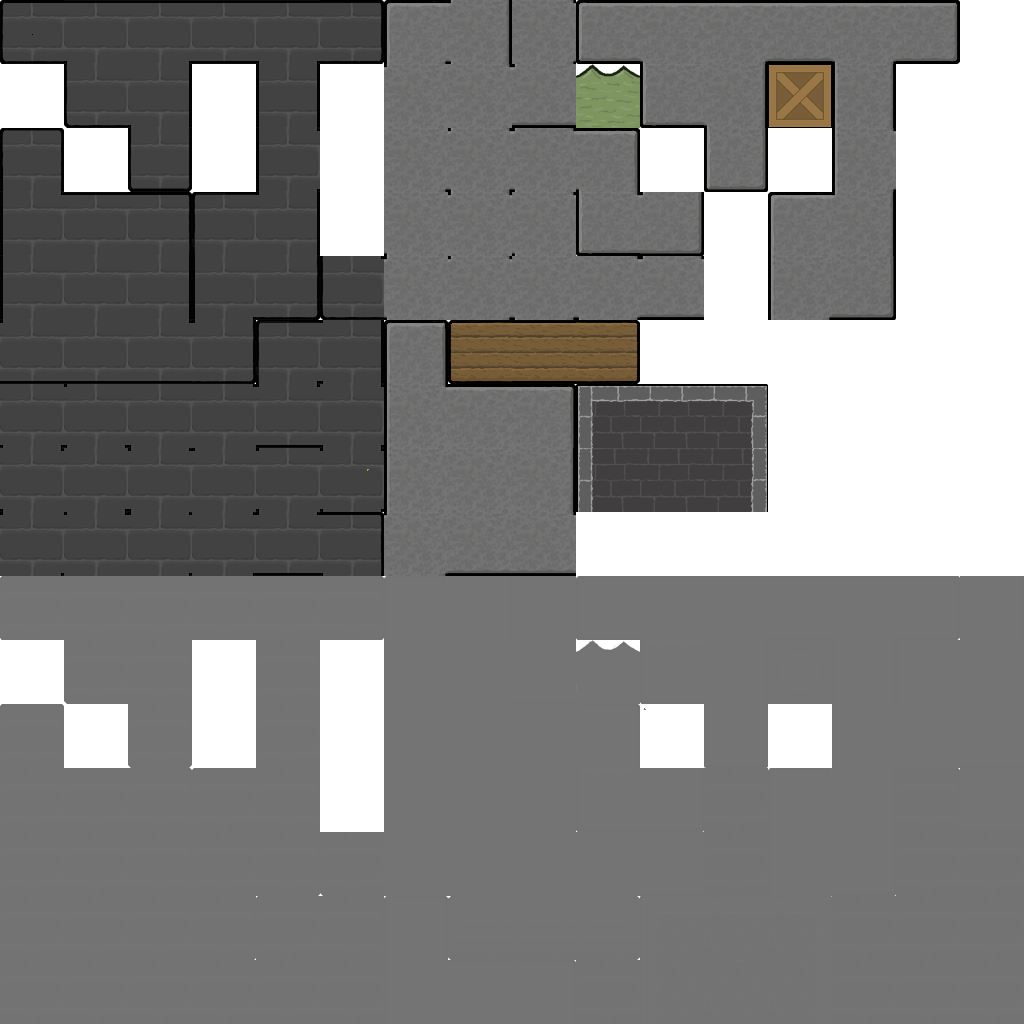
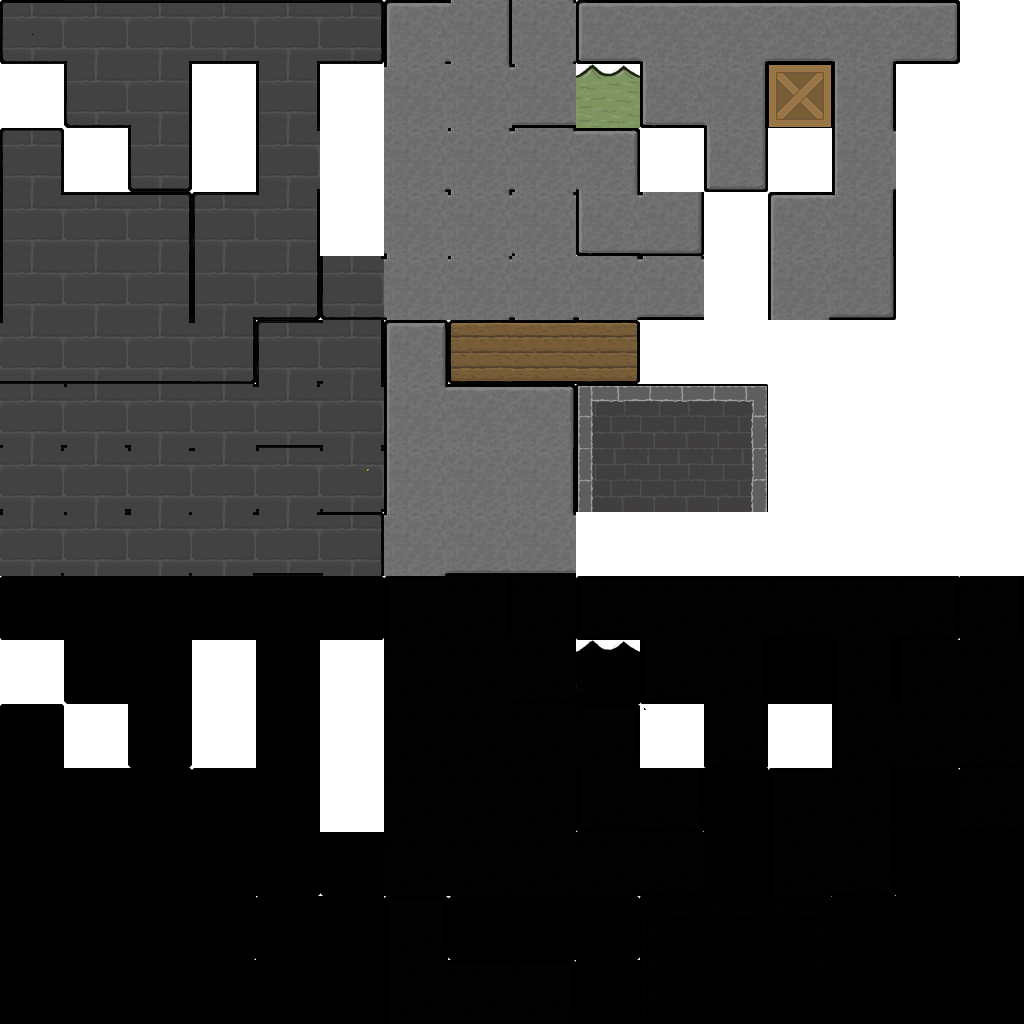
New shadow World

diff --git a/src/scenes/TestScene.js b/src/scenes/TestScene.js
@@ -16,8 +16,9 @@ TestScene.prototype.preload = function(){
     Scene.prototype.loadToScene.call(this,"layermap0","./assets/layermap0.png");
     Scene.prototype.loadToScene.call(this,"layermap1","./assets/layermap1.png");
     Scene.prototype.loadToScene.call(this,"objectLayer0", "./assets/objectLayer0.png");
-    Scene.prototype.loadToScene.call(this,"bg1","./assets/backgrounds/bg_nivel1.png");
-    Scene.prototype.loadToScene.call(this,"fg1","./assets/backgrounds/fg_nivel1.png");
+    Scene.prototype.loadToScene.call(this,"bg1","./assets/backgrounds/bg_nivel1_1.png");
+    Scene.prototype.loadToScene.call(this,"bg2","./assets/backgrounds/bg_nivel1_2.png");
+    Scene.prototype.loadToScene.call(this,"fg1","./assets/backgrounds/fg_nivel1_1.png");
     this.numLayers = 2;
 
     Scene.prototype.preload.call(this);
@@ -33,7 +34,8 @@ TestScene.prototype.create = function(){
     levelParser.parseObjects(this,"objectLayer");  
     
     let gui = new InGameGUI(this);  
-    let bg = new Background(this,"bg1", -Game.TILE_SIZE/2 -1,Game.TILE_SIZE,0);
+    let bg = new Background(this,"bg1", -Game.TILE_SIZE/2 -1,-Game.TILE_SIZE*2,0);
+    let bg2 = new Background(this,"bg2", 0,Game.TILE_SIZE,-1);
     let fg = new Foreground(this,"fg1",0,Game.TILE_SIZE,0);
     Scene.prototype.create.call(this);
 

diff --git a/src/Background.js b/src/Background.js
@@ -11,7 +11,7 @@ Background.prototype.draw = function(camera){
     var context = canvas.getContext('2d');
     
     let posAtCamera = this.pos.changeBase(camera.basis);
-    posAtCamera.x += (camera.pos.x - this.scene.middleSceneX) * 0.1 * this.depth;
+    posAtCamera.x += (camera.pos.x) * 0.2 * this.depth;
     let posAtViewPort = posAtCamera.changeBase(viewport.basis);
 
     context.drawImage(this.img,posAtViewPort.x, posAtViewPort.y + this.scene.shadowLevel * Game.TILE_SIZE);

diff --git a/src/Foreground.js b/src/Foreground.js
@@ -11,7 +11,7 @@ Foreground.prototype.draw = function(camera){
     var context = canvas.getContext('2d');
     
     let posAtCamera = this.pos.changeBase(camera.basis);
-    posAtCamera.x += (camera.pos.x + this.scene.middleSceneX) * 0.1 * (this.depth + 1);
+    posAtCamera.x += (-camera.pos.x) * 0.2 * (this.depth + 1);
 
     let posAtViewPort = posAtCamera.changeBase(viewport.basis);
 
